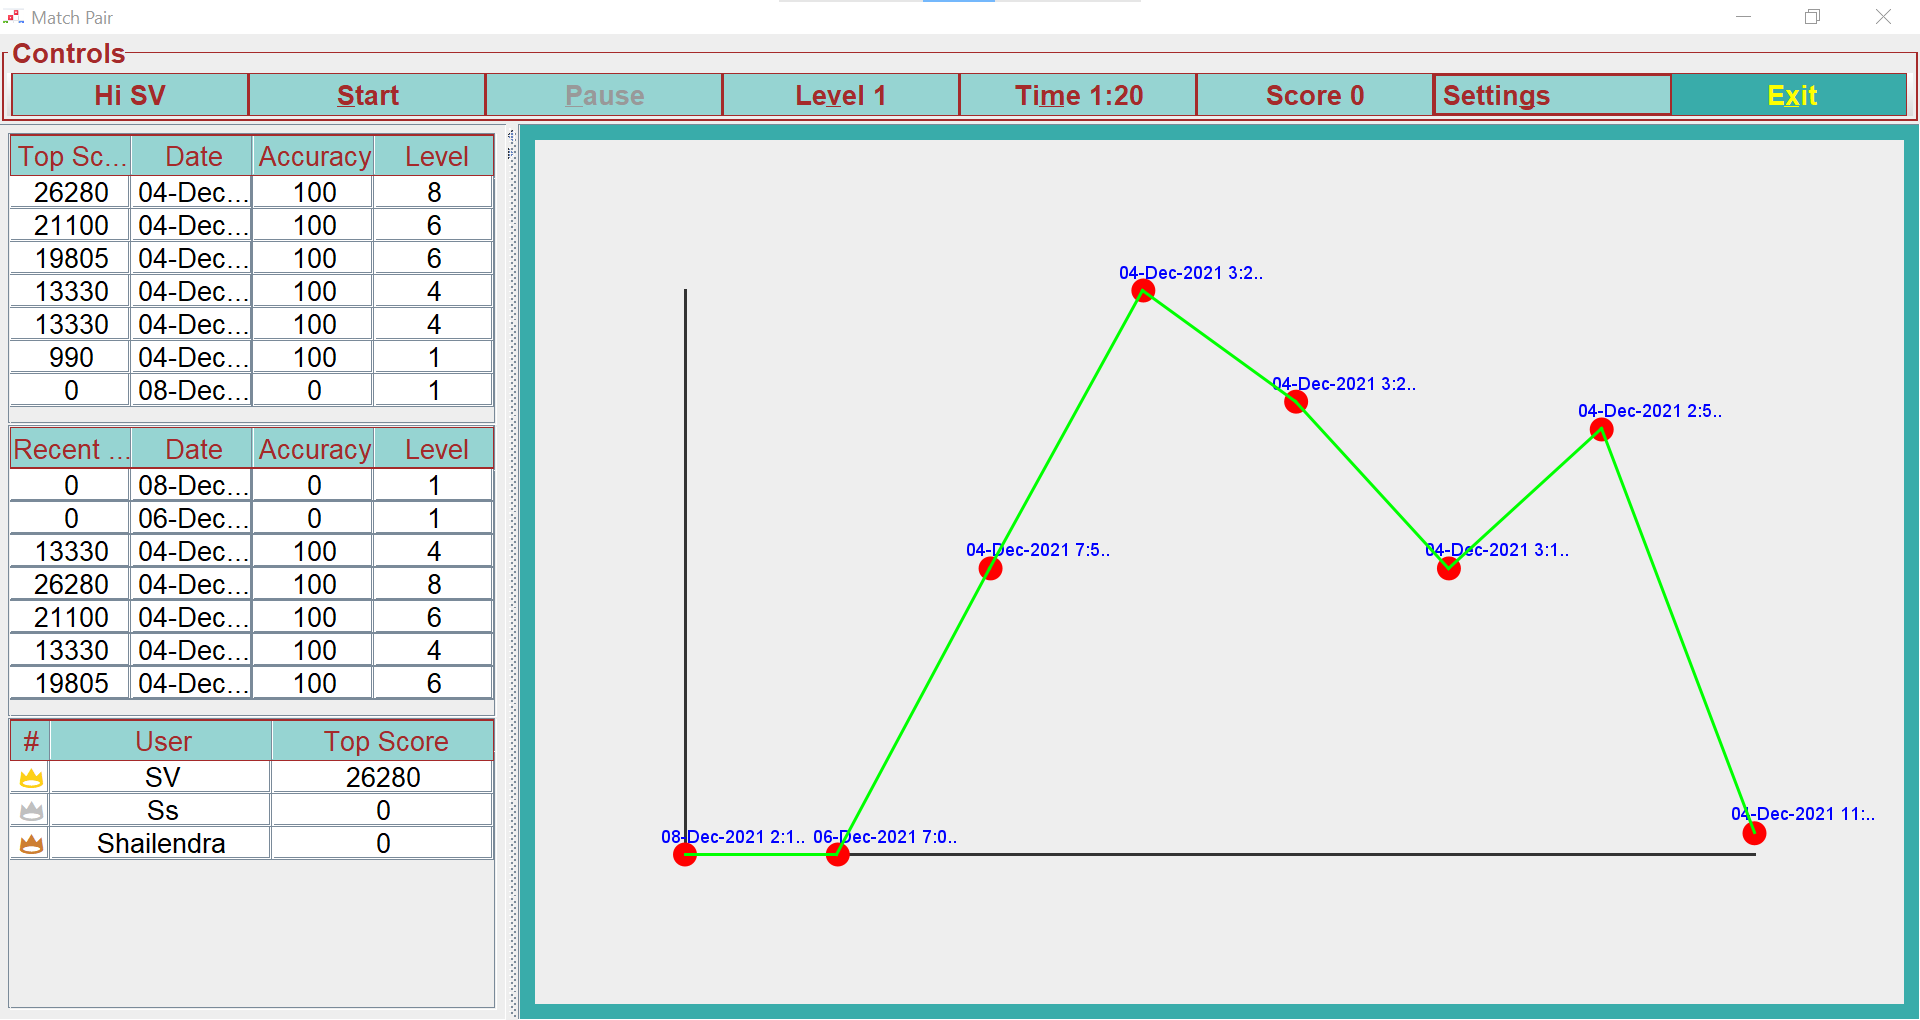
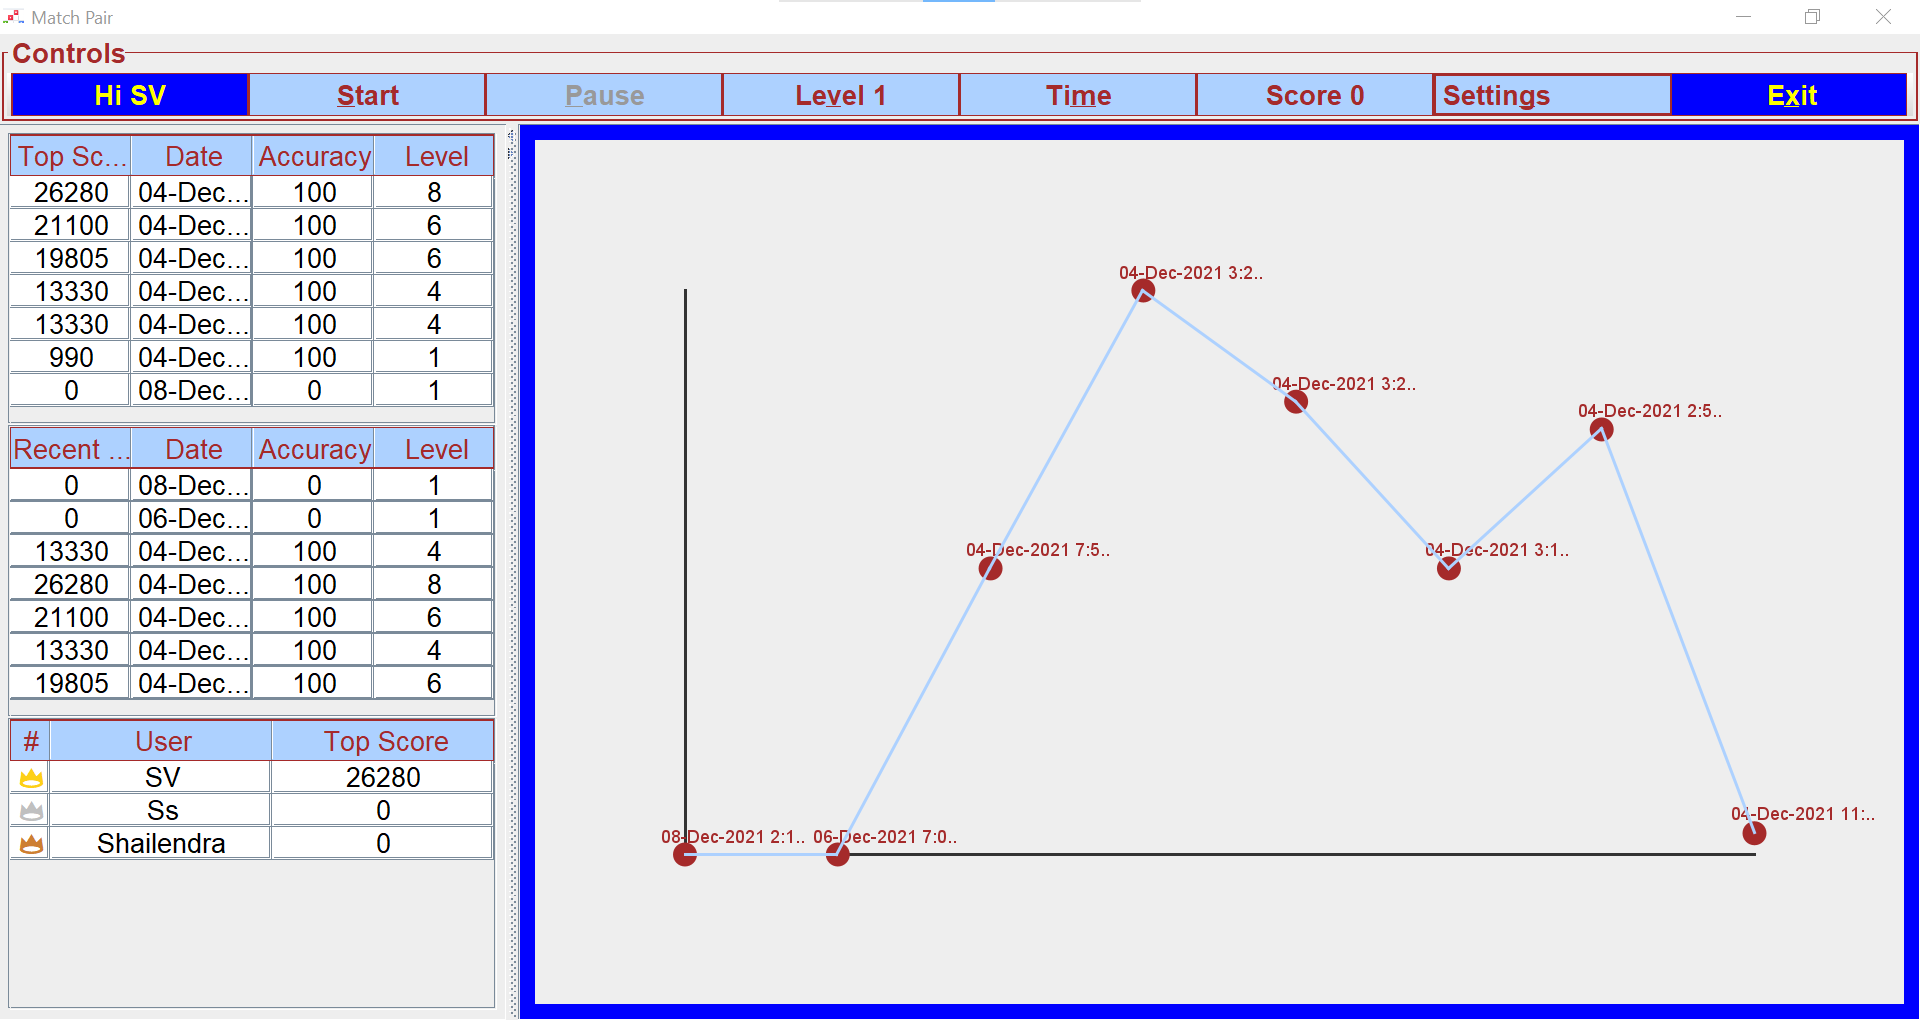
merged line graph utility

diff --git a/src/main/java/com/sv/matchpair/MatchPair.java b/src/main/java/com/sv/matchpair/MatchPair.java
@@ -301,6 +301,9 @@ public class MatchPair extends AppFrame {
         }
         graphPanel = new LineGraphPanel(prepareGraphData(getUserRecentScores()));
         graphPanel.setMargin(100);
+        graphPanel.setFontColor(fg);
+        graphPanel.setPointColor(fg);
+        graphPanel.setLineColor(bg);
         historyPanel.add(graphPanel);
         graphPanel.setToolTipColorsNFont(fg, bg, SwingUtils.getNewFont(getFont(), fontName));
         showScreen(GameScreens.history);
